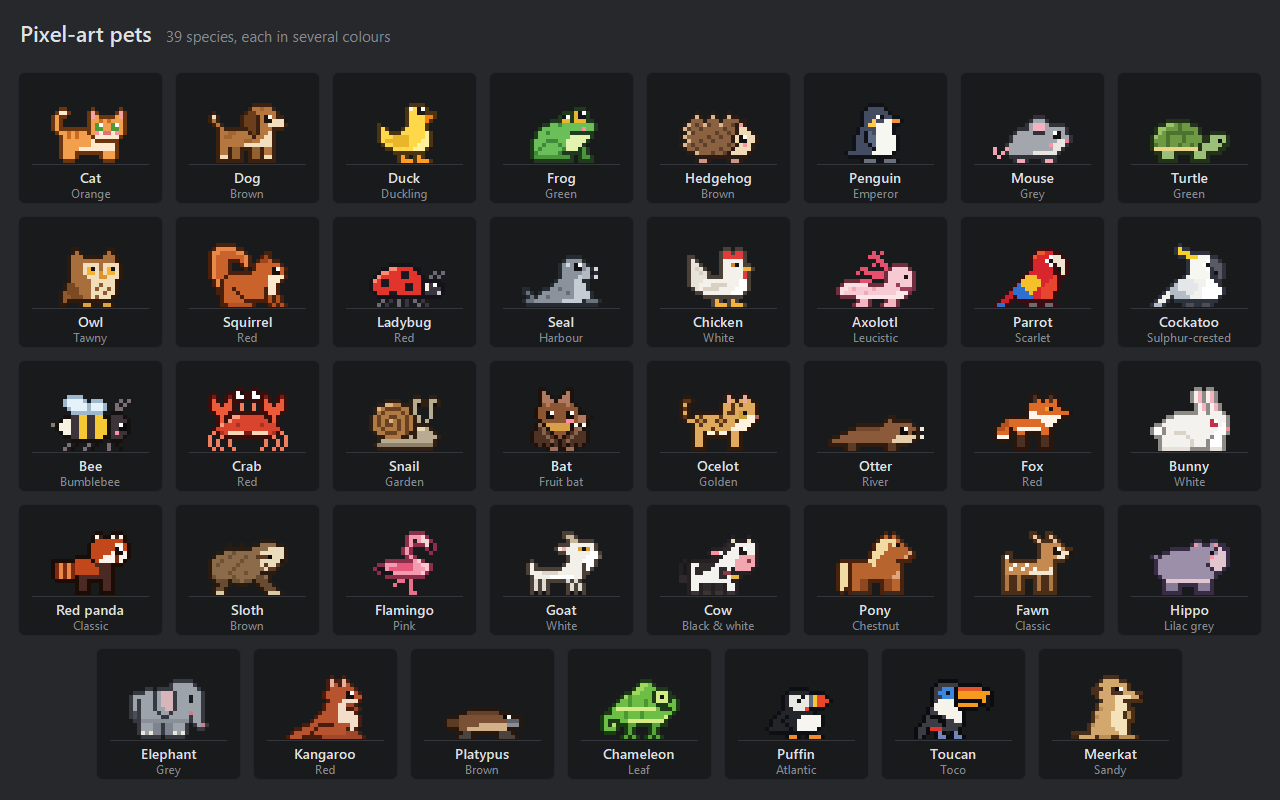
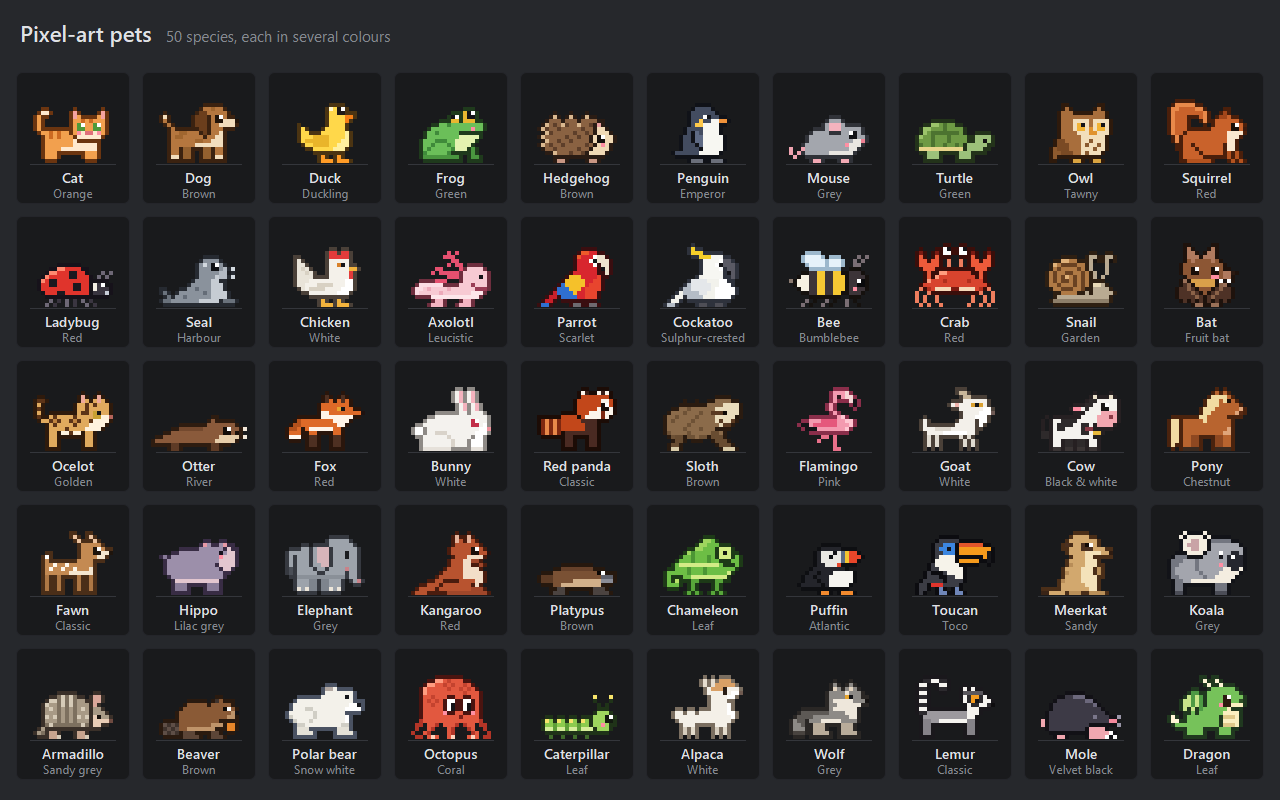
Document the 11 new pixel pets and bump to 0.1.4

diff --git a/README.md b/README.md
@@ -20,7 +20,7 @@ Works in IntelliJ-based IDEs 2025.2 and newer (IntelliJ IDEA, PhpStorm, PyCharm,
 ## Features
 
 - **Two art styles**
-  - *Pixel art* (the default): hand-made sprites of a cat, dog, duck, frog, hedgehog, penguin, mouse, turtle, owl, squirrel, ladybug, seal, chicken, axolotl, parrot, cockatoo, bee, crab, snail, bat, ocelot, otter, fox, bunny, red panda, sloth, flamingo, goat, cow, pony, fawn, hippo, elephant, kangaroo, platypus, chameleon, puffin, toucan and meerkat
+  - *Pixel art* (the default): hand-made sprites of a cat, dog, duck, frog, hedgehog, penguin, mouse, turtle, owl, squirrel, ladybug, seal, chicken, axolotl, parrot, cockatoo, bee, crab, snail, bat, ocelot, otter, fox, bunny, red panda, sloth, flamingo, goat, cow, pony, fawn, hippo, elephant, kangaroo, platypus, chameleon, puffin, toucan, meerkat, koala, armadillo, beaver, polar bear, octopus, caterpillar, alpaca, wolf, lemur, mole and dragon
   - *Cartoon*: smooth, procedurally drawn cat, dog, fox, bunny, panda, raccoon, hamster, pig, koala, sheep and lion
   - Every species comes in several colours.
 - **Custom pets:** draw your own pixel-art pets in a simple text format (or let an AI assistant draw them) and import
@@ -57,7 +57,7 @@ Works in IntelliJ-based IDEs 2025.2 and newer (IntelliJ IDEA, PhpStorm, PyCharm,
 
 | Pixel-art pets | Cartoon pets |
 | --- | --- |
-| ![All 39 pixel-art pets](docs/pixel-pets.png) | ![All 11 cartoon pets](docs/cartoon-pets.png) |
+| ![All 50 pixel-art pets](docs/pixel-pets.png) | ![All 11 cartoon pets](docs/cartoon-pets.png) |
 
 To hide all pets, untick **Tools | Code Gschpänli | Show Pets**. Pets also pause while *File | Power Save Mode* is on. The plugin collects no data and makes no network requests.
 

diff --git a/CHANGELOG.md b/CHANGELOG.md
@@ -13,6 +13,14 @@
   number. The settings list your custom pets with a preview and can delete them or open the folder.
 - A guide to making pets, by hand or with an AI assistant, with the file format, drawing tips and a template:
   [docs/custom-pets.md](https://github.com/ProgrammiererEFZ/code-gschpaenli/blob/main/docs/custom-pets.md).
+- 11 more pixel-art species: koala (a pixel-art one next to the cartoon koala), armadillo (rolls into a ball), beaver,
+  polar bear cub (belly-slides), octopus (puffs ink when it falls), caterpillar (sleeps in a cocoon), alpaca, wolf pup
+  (howls), ring-tailed lemur, mole (tunnels through dirt mounds) and baby dragon (puffs smoke rings), each in several
+  colours.
+
+### Changed
+
+- The pixel-art gallery image shows all 50 pixel-art species.
 
 ## [0.1.3] - 2026-11-16
 
